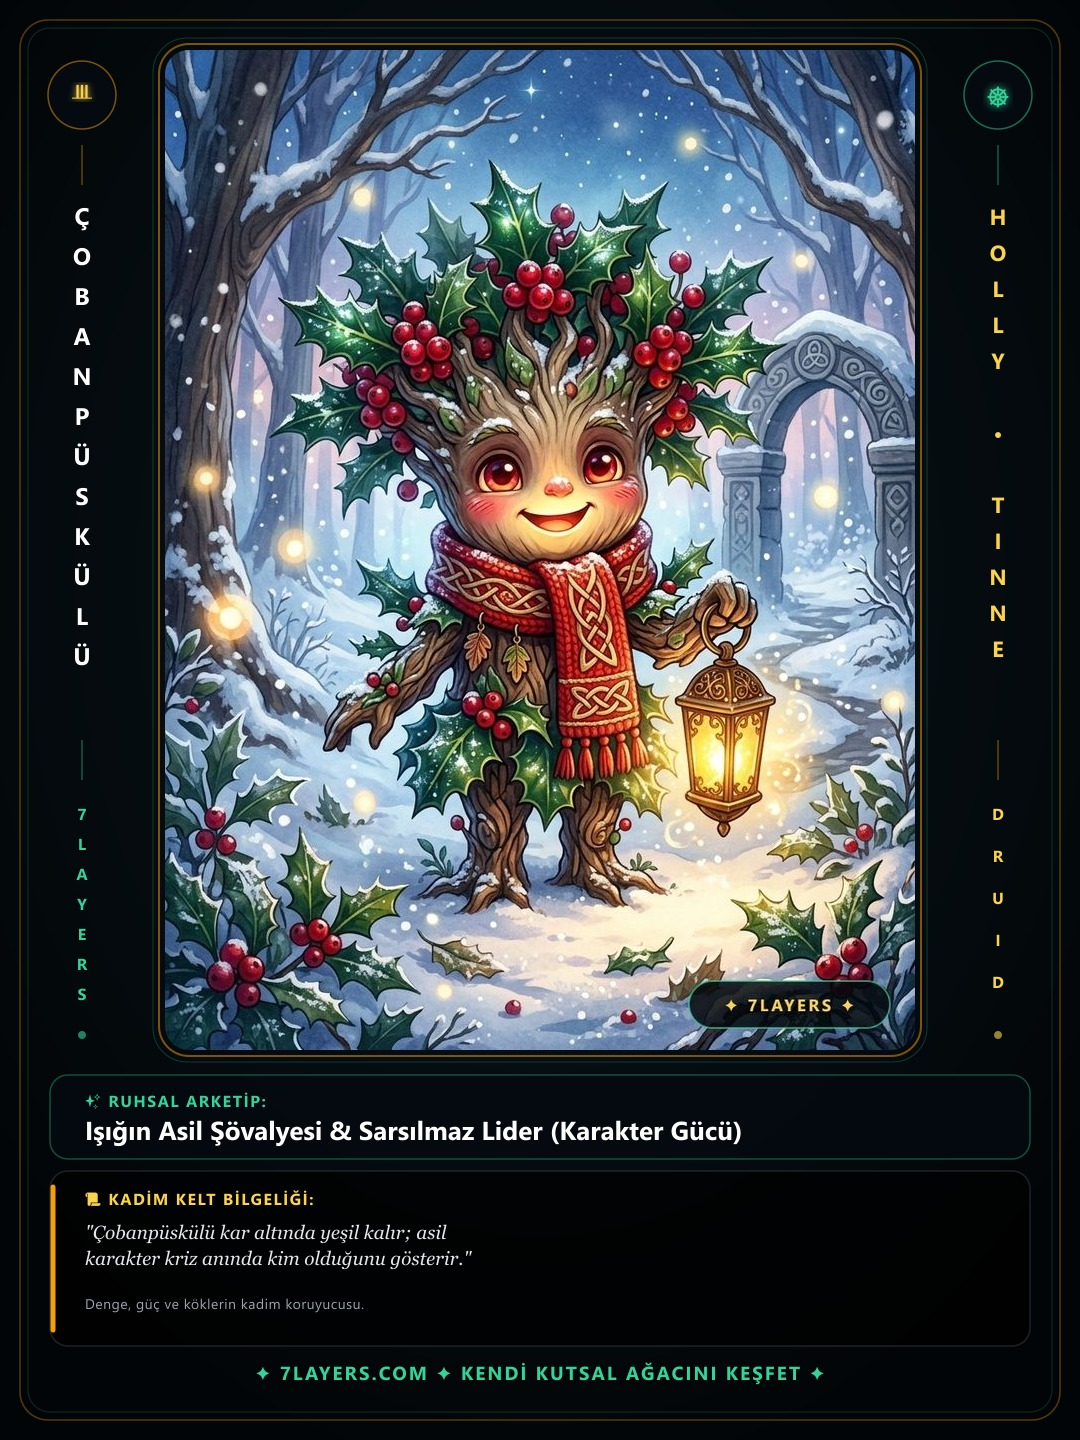
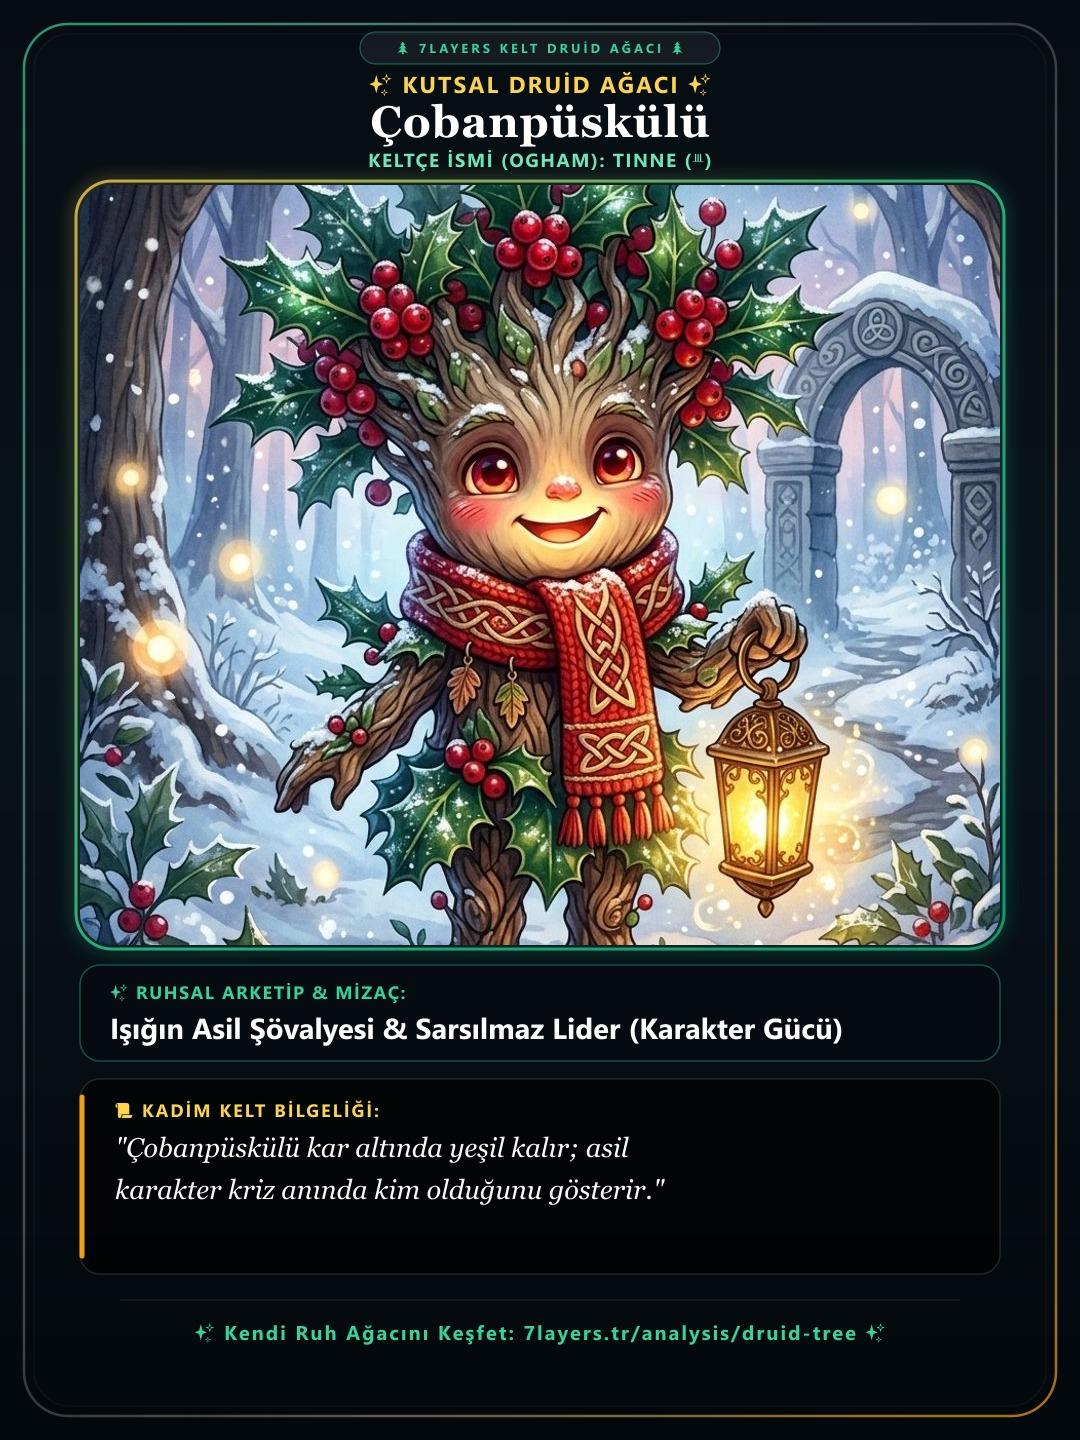
feat(druid): restore classic card layout with centered characters and no date range

diff --git a/src/features/astrology/server/druidTreeCardService.ts b/src/features/astrology/server/druidTreeCardService.ts
@@ -4,26 +4,8 @@ import { DruidTree } from '../engine/DruidTreeEngine';
 
 const CARD_WIDTH = 1080;
 const CARD_HEIGHT = 1440;
-const PORTRAIT_WIDTH = 750;
-const PORTRAIT_HEIGHT = 1000; // Exact 3:4 aspect ratio
-const PORTRAIT_TOP = 50;
-const PORTRAIT_LEFT = (CARD_WIDTH - PORTRAIT_WIDTH) / 2; // 165px
-
-export const TREE_ENGLISH_NAMES: Record<string, string> = {
-  birch: 'BIRCH',
-  rowan: 'ROWAN',
-  ash: 'ASH',
-  alder: 'ALDER',
-  willow: 'WILLOW',
-  hawthorn: 'HAWTHORN',
-  oak: 'OAK',
-  holly: 'HOLLY',
-  hazel: 'HAZEL',
-  vine: 'VINE',
-  ivy: 'IVY',
-  reed: 'REED',
-  elder: 'ELDER'
-};
+const INNER_IMG_WIDTH = 920;
+const INNER_IMG_HEIGHT = 760;
 
 function escapeXml(unsafe: string): string {
   return unsafe.replace(/[<>&'"]/g, (c) => {
@@ -38,7 +20,7 @@ function escapeXml(unsafe: string): string {
   });
 }
 
-function wrapText(text: string, maxCharsPerLine: number = 48): string[] {
+function wrapText(text: string, maxCharsPerLine: number = 44): string[] {
   const words = text.split(' ');
   const lines: string[] = [];
   let currentLine = '';
@@ -57,6 +39,12 @@ function wrapText(text: string, maxCharsPerLine: number = 48): string[] {
 
 /**
  * Türkçe büyük ünlü ve ses uyumuna göre isme tam uygun iyelik eki oluşturur
+ * Örnek: Baha -> BAHA'NIN DRUİD AĞACI
+ *        Ali -> ALİ'NİN DRUİD AĞACI
+ *        Mehmet -> MEHMET'İN DRUİD AĞACI
+ *        Can -> CAN'IN DRUİD AĞACI
+ *        Onur -> ONUR'UN DRUİD AĞACI
+ *        Gül -> GÜL'ÜN DRUİD AĞACI
  */
 export function formatTurkishPossessive(name: string): string {
   const clean = name.trim();
@@ -82,158 +70,134 @@ export function formatTurkishPossessive(name: string): string {
   else if (['o', 'u'].includes(lastVowel)) suffix = isLastCharVowel ? 'NUN' : 'UN';
   else if (['ö', 'ü'].includes(lastVowel)) suffix = isLastCharVowel ? 'NÜN' : 'ÜN';
 
-  return `${clean.toLocaleUpperCase('tr-TR')}'${suffix} KUTSAL AĞACI`;
-}
-
-/**
- * Yan sütunlarda harfleri dikey alt alta dizen yardımcı fonksiyon
- */
-function renderVerticalText(text: string, x: number, startY: number, maxHeight: number, maxFontSize: number, fill: string): string {
-  const chars = Array.from(text);
-  const count = chars.length;
-  if (count === 0) return '';
-
-  const stepY = Math.min(42, Math.floor(maxHeight / count));
-  const fontSize = Math.min(maxFontSize, Math.max(16, Math.floor(stepY * 0.65)));
-
-  return chars.map((char, i) => {
-    if (char === ' ') return ''; // Boşluk satır atlaması yaratır
-    const y = startY + i * stepY;
-    return `<text x="${x}" y="${y}" font-family="'Segoe UI', Roboto, sans-serif" font-size="${fontSize}" font-weight="800" fill="${fill}" text-anchor="middle">${escapeXml(char)}</text>`;
-  }).join('\n');
+  return `${clean.toLocaleUpperCase('tr-TR')}'${suffix} DRUİD AĞACI`;
 }
 
 export async function renderDruidTreeCard(tree: DruidTree, rawImagePath: string, personName?: string): Promise<Buffer> {
   const rawBuffer = await fs.promises.readFile(rawImagePath);
 
-  // Resize raw image to exact 3:4 portrait (750x1000)
-  const resizedPortrait = await sharp(rawBuffer)
-    .resize(PORTRAIT_WIDTH, PORTRAIT_HEIGHT, { fit: 'cover', position: 'center' })
+  // Resize inner art to 920x760 with center positioning so characters are framed
+  const resizedInnerImg = await sharp(rawBuffer)
+    .resize(INNER_IMG_WIDTH, INNER_IMG_HEIGHT, { fit: 'cover', position: 'center' })
     .toBuffer();
 
-  // Create rounded mask for portrait image
+  // Create rounded mask for inner image
   const maskSvg = `
-    <svg width="${PORTRAIT_WIDTH}" height="${PORTRAIT_HEIGHT}">
-      <rect width="${PORTRAIT_WIDTH}" height="${PORTRAIT_HEIGHT}" rx="24" fill="#FFF"/>
+    <svg width="${INNER_IMG_WIDTH}" height="${INNER_IMG_HEIGHT}">
+      <rect x="0" y="0" width="${INNER_IMG_WIDTH}" height="${INNER_IMG_HEIGHT}" rx="32" ry="32" fill="#FFF"/>
     </svg>
   `;
-  const roundedPortrait = await sharp(resizedPortrait)
+  const roundedInnerImg = await sharp(resizedInnerImg)
     .composite([{ input: Buffer.from(maskSvg), blend: 'dest-in' }])
     .png()
     .toBuffer();
 
-  const cleanName = personName ? personName.trim() : '';
-  const titleLeft = cleanName ? formatTurkishPossessive(cleanName) : tree.name.toLocaleUpperCase('tr-TR');
-  const enName = TREE_ENGLISH_NAMES[tree.id] || tree.id.toUpperCase();
-  const titleRight = `${enName} • ${tree.oghamName.toUpperCase()}`;
-  const proverbLines = wrapText(`"${tree.druidicProverb}"`, 48);
+  const oghamTitle = `KELTÇE İSMİ (OGHAM): ${tree.oghamName.toUpperCase()} (${tree.oghamSymbol})`;
+  const proverbLines = wrapText(`"${tree.druidicProverb}"`, 44);
 
+  const cleanName = personName ? personName.trim() : '';
+  const personalizedTitle = cleanName ? formatTurkishPossessive(cleanName) : 'KUTSAL DRUİD AĞACI';
   const footerText = cleanName 
-    ? `✦ 7LAYERS.COM ✦ ${cleanName.toLocaleUpperCase('tr-TR')} İÇİN ÖZEL ANALİZ ✦`
-    : `✦ 7LAYERS.COM ✦ KENDİ KUTSAL AĞACINI KEŞFET ✦`;
+    ? `✨ ${escapeXml(cleanName)} İçin Özel Analiz • 7layers.tr/analysis/druid-tree ✨`
+    : `✨ Kendi Ruh Ağacını Keşfet: 7layers.tr/analysis/druid-tree ✨`;
 
   const overlaySvg = `
     <svg width="${CARD_WIDTH}" height="${CARD_HEIGHT}" viewBox="0 0 ${CARD_WIDTH} ${CARD_HEIGHT}" xmlns="http://www.w3.org/2000/svg">
       <defs>
-        <radialGradient id="bgGlow" cx="50%" cy="40%" r="65%">
-          <stop offset="0%" stop-color="#0B1A1E" stop-opacity="1"/>
-          <stop offset="60%" stop-color="#050C10" stop-opacity="1"/>
-          <stop offset="100%" stop-color="#020507" stop-opacity="1"/>
-        </radialGradient>
-        <filter id="goldGlow" x="-20%" y="-20%" width="140%" height="140%">
-          <feGaussianBlur stdDeviation="3" result="blur" />
-          <feComposite in="SourceGraphic" in2="blur" operator="over" />
-        </filter>
-        <filter id="emeraldGlow" x="-20%" y="-20%" width="140%" height="140%">
-          <feGaussianBlur stdDeviation="4" result="blur" />
-          <feComposite in="SourceGraphic" in2="blur" operator="over" />
+        <linearGradient id="bgGrad" x1="0%" y1="0%" x2="0%" y2="100%">
+          <stop offset="0%" stop-color="#060C12"/>
+          <stop offset="45%" stop-color="#09141B"/>
+          <stop offset="100%" stop-color="#03080C"/>
+        </linearGradient>
+
+        <linearGradient id="goldGrad" x1="0%" y1="0%" x2="100%" y2="100%">
+          <stop offset="0%" stop-color="#FCD34D"/>
+          <stop offset="50%" stop-color="#34D399"/>
+          <stop offset="100%" stop-color="#10B981"/>
+        </linearGradient>
+
+        <linearGradient id="borderGrad" x1="0%" y1="0%" x2="100%" y2="100%">
+          <stop offset="0%" stop-color="#34D399" stop-opacity="0.7"/>
+          <stop offset="50%" stop-color="#FFFFFF" stop-opacity="0.2"/>
+          <stop offset="100%" stop-color="#F59E0B" stop-opacity="0.7"/>
+        </linearGradient>
+
+        <filter id="glow" x="-20%" y="-20%" width="140%" height="140%">
+          <feGaussianBlur stdDeviation="8" result="blur"/>
+          <feMerge>
+            <feMergeNode in="blur"/>
+            <feMergeNode in="SourceGraphic"/>
+          </feMerge>
         </filter>
       </defs>
 
       <!-- Background -->
-      <rect width="${CARD_WIDTH}" height="${CARD_HEIGHT}" fill="url(#bgGlow)"/>
+      <rect width="${CARD_WIDTH}" height="${CARD_HEIGHT}" fill="url(#bgGrad)"/>
 
-      <!-- Outer Card Border -->
-      <rect x="20" y="20" width="${CARD_WIDTH - 40}" height="${CARD_HEIGHT - 40}" rx="28" fill="none" stroke="#F59E0B" stroke-opacity="0.35" stroke-width="1.5"/>
-      <rect x="28" y="28" width="${CARD_WIDTH - 56}" height="${CARD_HEIGHT - 56}" rx="22" fill="none" stroke="#34D399" stroke-opacity="0.2" stroke-width="1"/>
+      <!-- Outer Luxury Border -->
+      <rect x="24" y="24" width="${CARD_WIDTH - 48}" height="${CARD_HEIGHT - 48}" rx="44" fill="none" stroke="url(#borderGrad)" stroke-width="2.5"/>
+      <rect x="34" y="34" width="${CARD_WIDTH - 68}" height="${CARD_HEIGHT - 68}" rx="36" fill="none" stroke="#FFFFFF" stroke-opacity="0.04" stroke-width="1.5"/>
 
-      <!-- Left Flank: Ogham Rune & Vertical Turkish Title (Center X: 82) -->
+      <!-- Header Section -->
       <g transform="translate(0, 0)">
-        <!-- Top Ogham Rune Emblem -->
-        <circle cx="82" cy="95" r="34" fill="#040A10" stroke="#F59E0B" stroke-opacity="0.5" stroke-width="1.5"/>
-        <text x="82" y="108" font-family="'Segoe UI', Roboto, sans-serif" font-size="34" fill="#FCD34D" text-anchor="middle" filter="url(#goldGlow)">
-          ${escapeXml(tree.oghamSymbol)}
+        <!-- Top Pill Badge -->
+        <rect x="360" y="32" width="360" height="32" rx="16" fill="#FFFFFF" fill-opacity="0.06" stroke="#34D399" stroke-opacity="0.4" stroke-width="1.2"/>
+        <text x="540" y="53" font-family="'Segoe UI', Roboto, sans-serif" font-size="13" font-weight="700" fill="#34D399" text-anchor="middle" letter-spacing="3">
+          🌲 7LAYERS KELT DRUİD AĞACI 🌲
         </text>
 
-        <!-- Vertical Line Accent -->
-        <line x1="82" y1="145" x2="82" y2="185" stroke="#F59E0B" stroke-opacity="0.4" stroke-width="1.5"/>
-
-        <!-- Vertical Tree Name -->
-        ${renderVerticalText(titleLeft, 82, 225, 480, 24, '#FFFFFF')}
-
-        <!-- Vertical 7LAYERS mark -->
-        <line x1="82" y1="740" x2="82" y2="780" stroke="#34D399" stroke-opacity="0.4" stroke-width="1.5"/>
-        ${renderVerticalText("7LAYERS", 82, 820, 210, 16, '#34D399')}
-        <circle cx="82" cy="1035" r="4" fill="#34D399" opacity="0.6"/>
-      </g>
-
-      <!-- Central Image Golden Frame -->
-      <rect x="${PORTRAIT_LEFT - 6}" y="${PORTRAIT_TOP - 6}" width="${PORTRAIT_WIDTH + 12}" height="${PORTRAIT_HEIGHT + 12}" rx="30" fill="none" stroke="#F59E0B" stroke-opacity="0.5" stroke-width="2"/>
-      <rect x="${PORTRAIT_LEFT - 12}" y="${PORTRAIT_TOP - 12}" width="${PORTRAIT_WIDTH + 24}" height="${PORTRAIT_HEIGHT + 24}" rx="34" fill="none" stroke="#34D399" stroke-opacity="0.25" stroke-width="1"/>
-
-      <!-- Right Flank: Celtic Seal & Vertical English/Celtic Name (Center X: 998) -->
-      <g transform="translate(0, 0)">
-        <!-- Top Celtic Seal -->
-        <circle cx="998" cy="95" r="34" fill="#040A10" stroke="#34D399" stroke-opacity="0.5" stroke-width="1.5"/>
-        <text x="998" y="107" font-family="'Segoe UI', Roboto, sans-serif" font-size="28" fill="#34D399" text-anchor="middle" filter="url(#emeraldGlow)">
-          ☸
+        <!-- Kişiye Özel İsim Şeridi -->
+        <text x="540" y="93" font-family="'Segoe UI', Roboto, sans-serif" font-size="23" font-weight="800" fill="#FCD34D" text-anchor="middle" letter-spacing="2">
+          ✨ ${escapeXml(personalizedTitle)} ✨
         </text>
 
-        <!-- Vertical Line Accent -->
-        <line x1="998" y1="145" x2="998" y2="185" stroke="#34D399" stroke-opacity="0.4" stroke-width="1.5"/>
+        <!-- Ağaç Adı -->
+        <text x="540" y="137" font-family="'Georgia', serif" font-size="44" font-weight="bold" fill="#FFFFFF" text-anchor="middle" letter-spacing="1">
+          ${escapeXml(tree.name)}
+        </text>
 
-        <!-- Vertical English/Celtic Title -->
-        ${renderVerticalText(titleRight, 998, 225, 480, 22, '#FCD34D')}
-
-        <!-- Vertical DRUID mark -->
-        <line x1="998" y1="740" x2="998" y2="780" stroke="#F59E0B" stroke-opacity="0.4" stroke-width="1.5"/>
-        ${renderVerticalText("DRUID", 998, 820, 210, 16, '#FCD34D')}
-        <circle cx="998" cy="1035" r="4" fill="#FCD34D" opacity="0.6"/>
+        <!-- Keltçe İsmi & Ogham -->
+        <text x="540" y="167" font-family="'Segoe UI', Roboto, sans-serif" font-size="19" font-weight="700" fill="#6EE7B7" text-anchor="middle" letter-spacing="1.5">
+          ${escapeXml(oghamTitle)}
+        </text>
       </g>
 
-      <!-- Bottom Panel (Y: 1075 to 1400) -->
-      <g transform="translate(50, 1075)">
+      <!-- Inner Image Border Glow -->
+      <rect x="76" y="181" width="${INNER_IMG_WIDTH + 8}" height="${INNER_IMG_HEIGHT + 8}" rx="36" fill="none" stroke="url(#goldGrad)" stroke-width="3" opacity="0.8" filter="url(#glow)"/>
+
+      <!-- Bottom Card Details -->
+      <g transform="translate(0, 965)">
         <!-- Archetype Box -->
-        <rect x="0" y="0" width="${CARD_WIDTH - 100}" height="84" rx="18" fill="#040A10" fill-opacity="0.85" stroke="#34D399" stroke-opacity="0.35" stroke-width="1.5"/>
-        <text x="35" y="32" font-family="'Segoe UI', Roboto, sans-serif" font-size="16" font-weight="bold" fill="#34D399" letter-spacing="1.5">
-          ✨ RUHSAL ARKETİP:
+        <rect x="80" y="0" width="${CARD_WIDTH - 160}" height="96" rx="20" fill="#040A10" fill-opacity="0.75" stroke="#34D399" stroke-opacity="0.35" stroke-width="1.5"/>
+        
+        <text x="110" y="34" font-family="'Segoe UI', Roboto, sans-serif" font-size="18" font-weight="bold" fill="#34D399" letter-spacing="1.5">
+          ✨ RUHSAL ARKETİP &amp; MİZAÇ:
         </text>
-        <text x="35" y="65" font-family="'Segoe UI', Roboto, sans-serif" font-size="26" font-weight="bold" fill="#FFFFFF">
+        <text x="110" y="74" font-family="'Segoe UI', Roboto, sans-serif" font-size="29" font-weight="bold" fill="#FFFFFF">
           ${escapeXml(tree.archetype)}
         </text>
 
-        <!-- Proverb Box -->
-        <g transform="translate(0, 96)">
-          <rect x="0" y="0" width="${CARD_WIDTH - 100}" height="175" rx="18" fill="#000000" fill-opacity="0.75" stroke="#FFFFFF" stroke-opacity="0.12" stroke-width="1.5"/>
-          <line x1="3" y1="16" x2="3" y2="159" stroke="#F59E0B" stroke-width="5" stroke-linecap="round"/>
+        <!-- Proverb Box (Large, High-Contrast & Wrapped) -->
+        <g transform="translate(80, 114)">
+          <rect x="0" y="0" width="${CARD_WIDTH - 160}" height="195" rx="20" fill="#000000" fill-opacity="0.65" stroke="#FFFFFF" stroke-opacity="0.12" stroke-width="1.5"/>
+          <line x1="2" y1="18" x2="2" y2="177" stroke="#F59E0B" stroke-width="5" stroke-linecap="round"/>
 
-          <text x="35" y="34" font-family="'Segoe UI', Roboto, sans-serif" font-size="16" font-weight="700" fill="#FCD34D" letter-spacing="1.5">
+          <text x="35" y="38" font-family="'Segoe UI', Roboto, sans-serif" font-size="18" font-weight="700" fill="#FCD34D" letter-spacing="2">
             📜 KADİM KELT BİLGELİĞİ:
           </text>
 
-          ${proverbLines.map((line, idx) => `
-            <text x="35" y="${68 + idx * 26}" font-family="'Georgia', serif" font-size="19" font-style="italic" fill="#E5E7EB">
-              ${escapeXml(line)}
-            </text>
-          `).join('')}
-
-          <text x="35" y="${68 + proverbLines.length * 26 + 18}" font-family="'Segoe UI', Roboto, sans-serif" font-size="14" fill="#9CA3AF" letter-spacing="0.5">
-            Denge, güç ve köklerin kadim koruyucusu.
-          </text>
+          <g transform="translate(35, 78)">
+            ${proverbLines.map((line, idx) => `
+              <text x="0" y="${idx * 42}" font-family="'Georgia', serif" font-size="27" font-style="italic" fill="#F8FAFC" font-weight="500">
+                ${escapeXml(line)}
+              </text>
+            `).join('')}
+          </g>
         </g>
 
         <!-- Footer Brand Line -->
-        <text x="${(CARD_WIDTH - 100) / 2}" y="305" font-family="'Segoe UI', Roboto, sans-serif" font-size="19" font-weight="700" fill="#34D399" text-anchor="middle" letter-spacing="2">
+        <line x1="120" y1="335" x2="${CARD_WIDTH - 120}" y2="335" stroke="#FFFFFF" stroke-opacity="0.12" stroke-width="1"/>
+        <text x="540" y="375" font-family="'Segoe UI', Roboto, sans-serif" font-size="20" font-weight="700" fill="#34D399" text-anchor="middle" letter-spacing="2">
           ${footerText}
         </text>
       </g>
@@ -243,9 +207,9 @@ export async function renderDruidTreeCard(tree: DruidTree, rawImagePath: string,
   return sharp(Buffer.from(overlaySvg))
     .composite([
       {
-        input: roundedPortrait,
-        top: PORTRAIT_TOP,
-        left: PORTRAIT_LEFT
+        input: roundedInnerImg,
+        top: 185,
+        left: 80
       }
     ])
     .jpeg({ quality: 92 })
